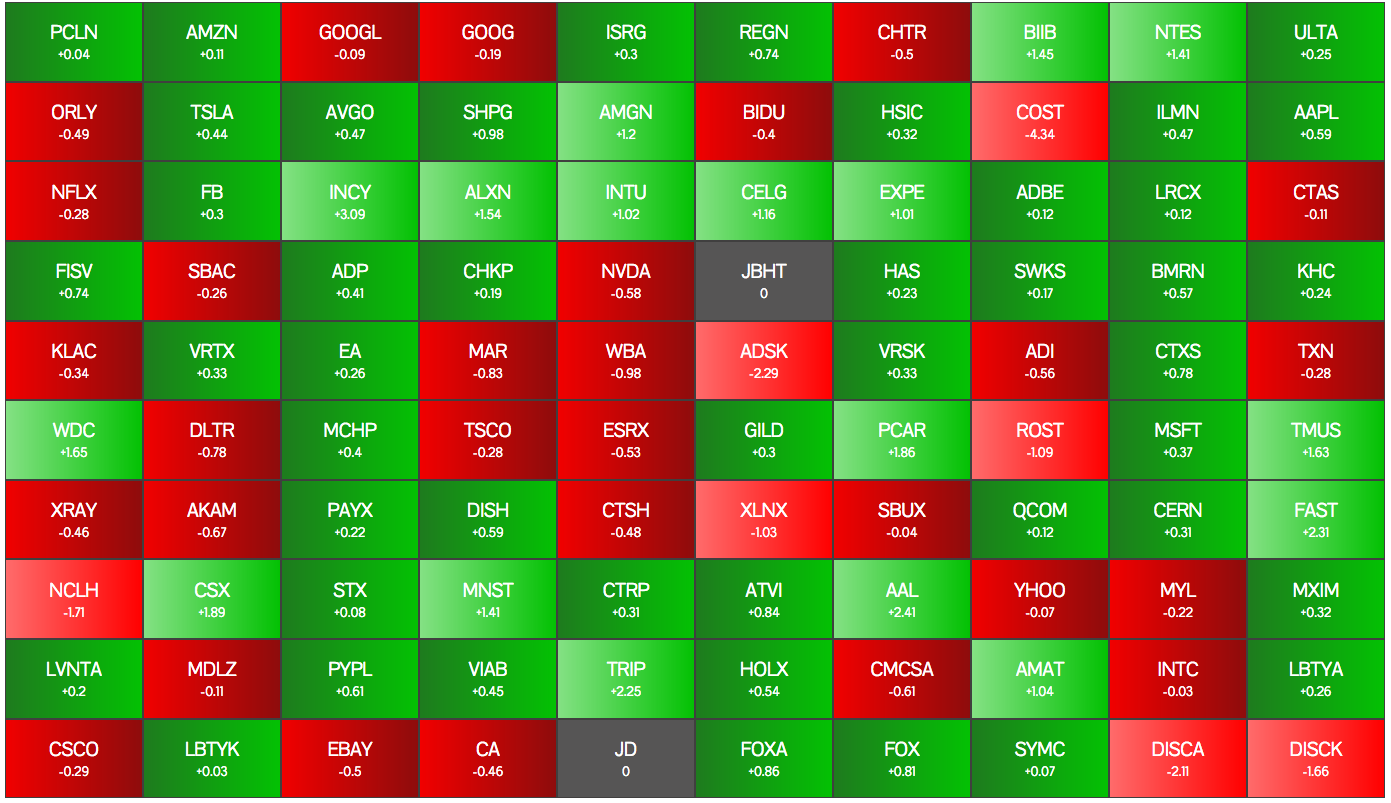
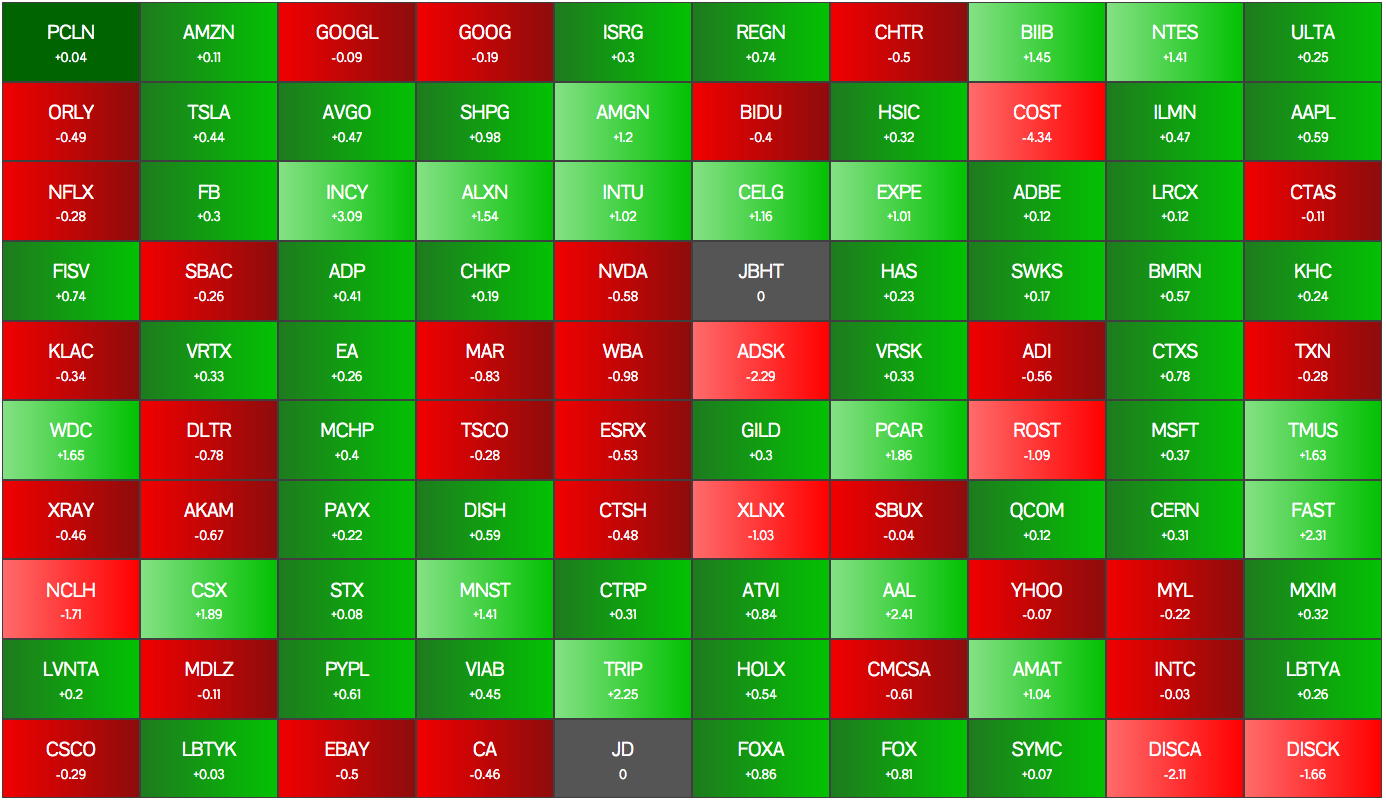
style edit

diff --git a/public/assets/css/grid_style.css b/public/assets/css/grid_style.css
@@ -12,8 +12,8 @@
 }
 
 .pctchange {
-    margin-bottom: 12%;
-    margin-top: 0%;
+    margin-bottom: 10%;
+    margin-top: 2%;
     font-size: 13px;
 }
 
